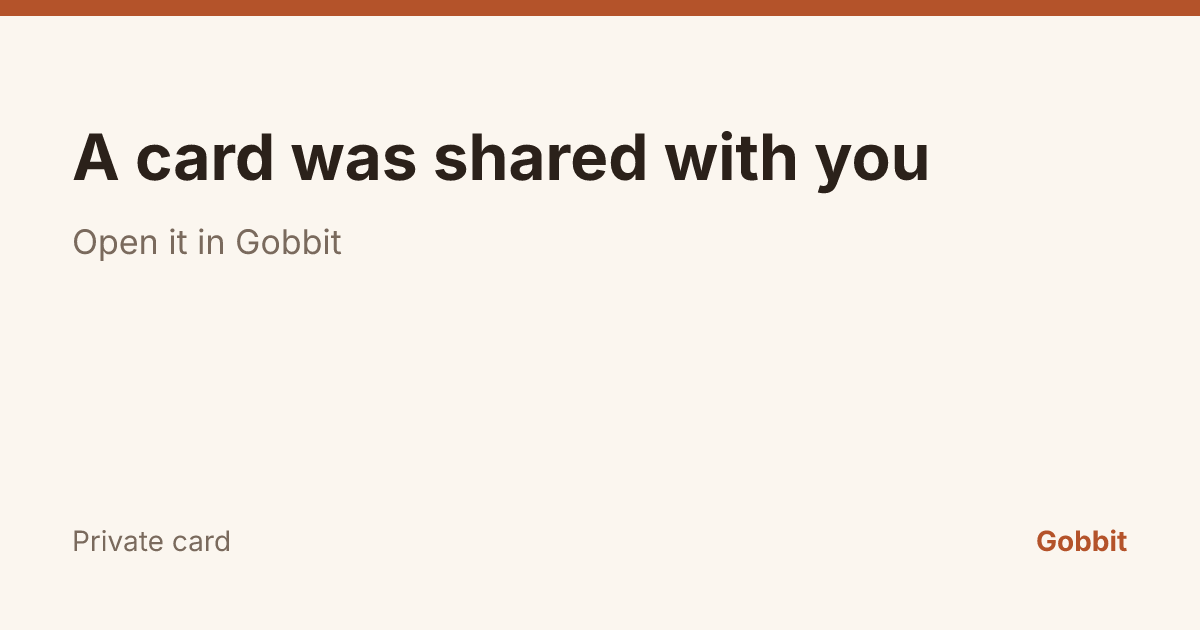
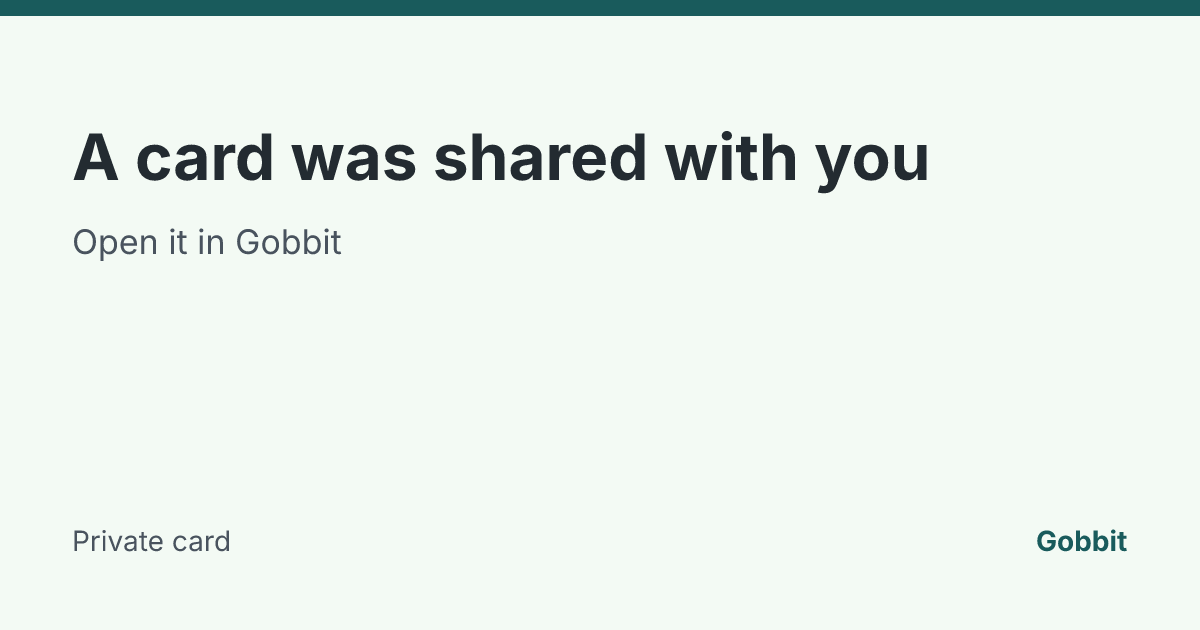
chore(web,api): green brand palette (#78)
Replace the terracotta palette with the owner's green brand colours
(mint #d7f0db, slate #49535e, light green #b2e29b, deep teal #195b5c)
across the web tokens, public/landing pages, OG images, icons, favicon,
theme-color and manifest. Adds --color-highlight for search hit marks,
--on-accent/--danger on public pages, and contrast assertions for every
token text pair (D272).

diff --git a/apps/api/src/public/styles.ts b/apps/api/src/public/styles.ts
@@ -1,10 +1,11 @@
 /**
  * D177: the one inline stylesheet of public pages. System fonts, a narrow column and logical
- * properties only (`margin-inline`, `padding-inline`), so RTL pages need no extra rules.
+ * properties only (`margin-inline`, `padding-inline`), so RTL pages need no extra rules. Colours
+ * follow the web app's green brand palette (D272).
  */
 export const PUBLIC_PAGE_CSS = `
-:root{color-scheme:light dark;--fg:#1d1d1f;--muted:#6b6b70;--bg:#fbfbf8;--card:#fff;--line:#e3e3df;--accent:#2f6d4f}
-@media (prefers-color-scheme:dark){:root{--fg:#ececec;--muted:#a0a0a6;--bg:#161618;--card:#202023;--line:#333337;--accent:#7fc6a2}}
+:root{color-scheme:light dark;--fg:#232b31;--muted:#49535e;--bg:#f3faf4;--card:#fff;--line:#cfe3d4;--accent:#195b5c;--on-accent:#fff;--danger:#a12b2b}
+@media (prefers-color-scheme:dark){:root{--fg:#e8f3ea;--muted:#a3b5b0;--bg:#121a1c;--card:#1a2629;--line:#2c3e41;--accent:#b2e29b;--on-accent:#121a1c;--danger:#f08a8a}}
 *{box-sizing:border-box}
 body{margin:0;font:16px/1.55 system-ui,-apple-system,"Segoe UI",Roboto,"Noto Sans Hebrew",sans-serif;color:var(--fg);background:var(--bg)}
 main{max-width:40rem;margin-inline:auto;padding:1.25rem 1rem 3rem}
@@ -34,7 +35,7 @@ dl.calc dd{margin:0}
 .pager{margin-block-start:1.25rem}
 form.search{display:flex;gap:.5rem;margin-block:.75rem}
 form.search input{flex:1;min-width:0;font:inherit;padding:.4rem .6rem;border:1px solid var(--line);border-radius:.5rem;background:var(--card);color:var(--fg)}
-form.search button{font:inherit;padding:.4rem .9rem;border:1px solid var(--accent);border-radius:.5rem;background:var(--accent);color:var(--bg)}
+form.search button{font:inherit;padding:.4rem .9rem;border:1px solid var(--accent);border-radius:.5rem;background:var(--accent);color:var(--on-accent)}
 footer{margin-block-start:2rem;font-size:.85rem;color:var(--muted)}
 `
   .trim()

diff --git a/apps/web/src/styles.css b/apps/web/src/styles.css
@@ -2,17 +2,19 @@
 
 :root {
   color-scheme: light dark;
-  --color-bg: #fbf6ef;
+  /* D272: green brand palette — mint #d7f0db, slate #49535e, light green #b2e29b, teal #195b5c. */
+  --color-bg: #f3faf4;
   --color-surface: #ffffff;
-  --color-text: #2b2420;
-  --color-muted: #6f625a;
-  --color-border: #e6dccf;
-  --color-accent: #b4532a;
+  --color-text: #232b31;
+  --color-muted: #49535e;
+  --color-border: #cfe3d4;
+  --color-accent: #195b5c;
   --color-accent-text: #ffffff;
-  --color-accent-soft: #f6e3d8;
+  --color-accent-soft: #d7f0db;
+  --color-highlight: #b2e29b;
   --color-danger: #a12b2b;
-  --color-banner: #3d342e;
-  --color-banner-text: #fbf6ef;
+  --color-banner: #195b5c;
+  --color-banner-text: #ffffff;
 
   --font-body:
     system-ui, -apple-system, 'Segoe UI', Roboto, 'Noto Sans', 'Noto Sans Hebrew', sans-serif;
@@ -32,17 +34,18 @@
 
 @media (prefers-color-scheme: dark) {
   :root {
-    --color-bg: #1b1714;
-    --color-surface: #26201c;
-    --color-text: #f1e9e1;
-    --color-muted: #b3a69b;
-    --color-border: #3b322c;
-    --color-accent: #e07a4b;
-    --color-accent-text: #1b1714;
-    --color-accent-soft: #3d2a20;
+    --color-bg: #121a1c;
+    --color-surface: #1a2629;
+    --color-text: #e8f3ea;
+    --color-muted: #a3b5b0;
+    --color-border: #2c3e41;
+    --color-accent: #b2e29b;
+    --color-accent-text: #121a1c;
+    --color-accent-soft: #1f4243;
+    --color-highlight: #195b5c;
     --color-danger: #f08a8a;
-    --color-banner: #f1e9e1;
-    --color-banner-text: #1b1714;
+    --color-banner: #d7f0db;
+    --color-banner-text: #121a1c;
     --shadow: none;
   }
 }
@@ -1506,7 +1509,7 @@ h3 {
 
 .search-hit-mark {
   border-radius: 2px;
-  background: var(--color-accent-soft);
+  background: var(--color-highlight);
   color: inherit;
 }
 

diff --git a/apps/api/src/public/landing-styles.ts b/apps/api/src/public/landing-styles.ts
@@ -37,12 +37,12 @@ form.join fieldset{border:0;margin:0;padding:0;display:grid;gap:.25rem}
 form.join legend{font-weight:600;padding:0;margin-block-end:.35rem}
 form.join label.choice{display:flex;align-items:center;gap:.6rem;min-height:44px;padding-inline:.25rem;cursor:pointer}
 form.join input[type=radio]{width:1.25rem;height:1.25rem;margin:0;accent-color:var(--accent)}
-form.join button{font:inherit;font-weight:600;min-height:44px;padding:.5rem 1rem;border:1px solid var(--accent);border-radius:.5rem;background:var(--accent);color:var(--bg);cursor:pointer}
-form.join [aria-invalid=true]{border-color:#b3261e}
-.error{color:#b3261e;font-weight:400;font-size:.9rem;margin:0}
-.notice{border:1px solid #b3261e;border-radius:.5rem;padding:.6rem .75rem;margin:0}
+form.join button{font:inherit;font-weight:600;min-height:44px;padding:.5rem 1rem;border:1px solid var(--accent);border-radius:.5rem;background:var(--accent);color:var(--on-accent);cursor:pointer}
+form.join [aria-invalid=true]{border-color:var(--danger)}
+.error{color:var(--danger);font-weight:400;font-size:.9rem;margin:0}
+.notice{border:1px solid var(--danger);border-radius:.5rem;padding:.6rem .75rem;margin:0}
 .hp{position:absolute;inset-inline-start:-10000px;width:1px;height:1px;overflow:hidden}
-a.button{display:inline-flex;align-items:center;min-height:44px;padding:.5rem 1rem;border-radius:.5rem;background:var(--accent);color:var(--bg);text-decoration:none;font-weight:600}
+a.button{display:inline-flex;align-items:center;min-height:44px;padding:.5rem 1rem;border-radius:.5rem;background:var(--accent);color:var(--on-accent);text-decoration:none;font-weight:600}
 `
   .trim()
   .replace(/\n/g, '');

diff --git a/apps/api/src/share/icon-template.ts b/apps/api/src/share/icon-template.ts
@@ -3,8 +3,8 @@ import { OG_COLORS, OG_TEMPLATE_FONT, type OgNode } from './og-template';
 /** Placeholder monogram until a real logo exists (plan § 10). */
 export const ICON_MONOGRAM = 'G';
 
-/** A warm accent gradient shared by every icon variant. */
-const ICON_GRADIENT = `linear-gradient(135deg, #d0703f 0%, ${OG_COLORS.accent} 100%)`;
+/** A deep-teal gradient (lifted teal to brand teal) shared by every icon variant. */
+const ICON_GRADIENT = `linear-gradient(135deg, #2a7a7b 0%, ${OG_COLORS.accent} 100%)`;
 
 export type IconVariant = 'any' | 'maskable';
 
@@ -25,7 +25,7 @@ export function iconTree(size: number, variant: IconVariant = 'any'): OgNode {
         justifyContent: 'center',
         backgroundImage: ICON_GRADIENT,
         borderRadius: maskable ? 0 : Math.round(size * 0.22),
-        color: OG_COLORS.background,
+        color: OG_COLORS.mint,
         fontFamily: OG_TEMPLATE_FONT,
         fontWeight: 700,
         fontSize: Math.round(size * (maskable ? 0.5 : 0.62)),

diff --git a/apps/web/src/styles.test.ts b/apps/web/src/styles.test.ts
@@ -52,6 +52,22 @@ describe.each([
     );
   });
 
+  // D272: every text pair of the green palette meets WCAG AA for normal text.
+  it.each([
+    ['--color-text', '--color-bg'],
+    ['--color-text', '--color-surface'],
+    ['--color-text', '--color-accent-soft'],
+    ['--color-text', '--color-highlight'],
+    ['--color-muted', '--color-bg'],
+    ['--color-muted', '--color-surface'],
+    ['--color-muted', '--color-accent-soft'],
+    ['--color-accent', '--color-bg'],
+    ['--color-accent', '--color-surface'],
+    ['--color-banner-text', '--color-banner'],
+  ])('keeps %s on %s at 4.5:1 or more', (fg, bg) => {
+    expect(contrast(color(fg), color(bg))).toBeGreaterThanOrEqual(4.5);
+  });
+
   it('keeps icon-only controls (muted) at 3:1 or more', () => {
     expect(contrast(color('--color-muted'), color('--color-surface'))).toBeGreaterThanOrEqual(3);
     expect(contrast(color('--color-muted'), color('--color-bg'))).toBeGreaterThanOrEqual(3);

diff --git a/apps/api/src/share/og-template.ts b/apps/api/src/share/og-template.ts
@@ -14,11 +14,13 @@ export const OG_WIDTH = 1200;
 export const OG_HEIGHT = 630;
 export const OG_TEMPLATE_FONT = 'Inter, Noto Sans Hebrew';
 
+/** D272: the green brand palette, shared with the web tokens and public pages. */
 export const OG_COLORS = {
-  background: '#fbf6ef',
-  accent: '#b4532a',
-  text: '#2b211a',
-  muted: '#7a6a5d',
+  background: '#f3faf4',
+  accent: '#195b5c',
+  text: '#232b31',
+  muted: '#49535e',
+  mint: '#d7f0db',
 } as const;
 
 export type OgCardInput = {

diff --git a/apps/web/index.html b/apps/web/index.html
@@ -3,7 +3,7 @@
   <head>
     <meta charset="UTF-8" />
     <meta name="viewport" content="width=device-width, initial-scale=1, viewport-fit=cover" />
-    <meta name="theme-color" content="#b4532a" />
+    <meta name="theme-color" content="#195b5c" />
     <meta name="description" content="Gobbit — your family's deck of useful cards" />
     <link rel="icon" href="/favicon.svg" type="image/svg+xml" />
     <link rel="apple-touch-icon" href="/icons/icon-192.png" />

diff --git a/apps/web/vite.config.ts b/apps/web/vite.config.ts
@@ -29,8 +29,8 @@ export default defineConfig({
         scope: '/',
         display: 'standalone',
         orientation: 'portrait',
-        theme_color: '#b4532a',
-        background_color: '#fbf6ef',
+        theme_color: '#195b5c',
+        background_color: '#f3faf4',
         icons: [
           { src: '/icons/icon-192.png', sizes: '192x192', type: 'image/png' },
           { src: '/icons/icon-512.png', sizes: '512x512', type: 'image/png' },

diff --git a/docs/design/web-pwa.md b/docs/design/web-pwa.md
@@ -21,6 +21,28 @@ Request routing and CI/deploy notes: [deployment.md](deployment.md).
 - Runtime config (D55): `GET /api/config` → `{ cloudinaryCloudName, commit }`, cached for the session in the persisted query cache. One web image works in every environment.
 - Styling: plain CSS with custom properties and `prefers-color-scheme` (`styles.css`); no UI kit. Initial JS is asserted ≤ 150 KB gzip in CI (`pnpm budget`, reads the Vite manifest).
 
+## Palette (D272)
+
+Green brand palette from four owner-supplied colours: mint `#d7f0db`, slate `#49535e`, light green `#b2e29b`, deep teal `#195b5c`. The same values drive the app tokens (`styles.css`), the public pages and landing (`apps/api/src/public/styles.ts`, shared by `landing-styles.ts`), the OG images and icons (`OG_COLORS`, re-rendered with `pnpm og:static`), `theme-color` and the manifest.
+
+| Token | Light | Dark |
+| --- | --- | --- |
+| `--color-bg` | `#f3faf4` (mint tint) | `#121a1c` |
+| `--color-surface` | `#ffffff` | `#1a2629` |
+| `--color-text` | `#232b31` (dark slate) | `#e8f3ea` |
+| `--color-muted` | `#49535e` (slate) | `#a3b5b0` |
+| `--color-border` | `#cfe3d4` | `#2c3e41` |
+| `--color-accent` | `#195b5c` (teal) | `#b2e29b` (light green) |
+| `--color-accent-text` | `#ffffff` | `#121a1c` |
+| `--color-accent-soft` | `#d7f0db` (mint) | `#1f4243` |
+| `--color-highlight` | `#b2e29b` (search hit marks) | `#195b5c` |
+| `--color-danger` | `#a12b2b` | `#f08a8a` |
+| `--color-banner` / `-text` | `#195b5c` / `#ffffff` | `#d7f0db` / `#121a1c` |
+
+- Contrast (WCAG 2.x): every text pair is ≥ 4.5:1 in both themes — lowest are muted on accent-soft (light 6.48:1, dark 5.10:1) and danger on surface (dark 6.43:1); accent-text on accent is 7.80:1 (light) and 11.97:1 (dark). `styles.test.ts` asserts the pairs from the tokens. No brand colour needed adjusting.
+- Focus rings stay `--color-accent` (light green on a light background would be under 3:1). The public pages gained `--on-accent` (button text) and `--danger` (the landing form's errors, formerly a fixed red that failed in dark mode).
+- The icon is a lifted-teal → teal gradient (`#2a7a7b` → `#195b5c`) with a mint monogram.
+
 ## Offline model (D56)
 
 - The service worker (`src/sw.ts`, vite-plugin-pwa `injectManifest`, typechecked with `tsconfig.sw.json`) precaches the app shell and caches Cloudinary images `CacheFirst` (30 days, 600 entries: the blurred placeholders share it, D162). It never caches API responses, and `og/**` is not precached.

diff --git a/docs/usability-backlog.md b/docs/usability-backlog.md
@@ -33,6 +33,7 @@ Logged first, then planned in `PLAN.md` § Usability pass. Each item names the f
 
 ## 2026-11-03
 
+- [x] Palette: move to the green brand palette → chore/green-palette
 ### Card editor
 
 - [x] Table/calc: start new cards from a sample with a Clear button → fix/editor-sample-payloads
